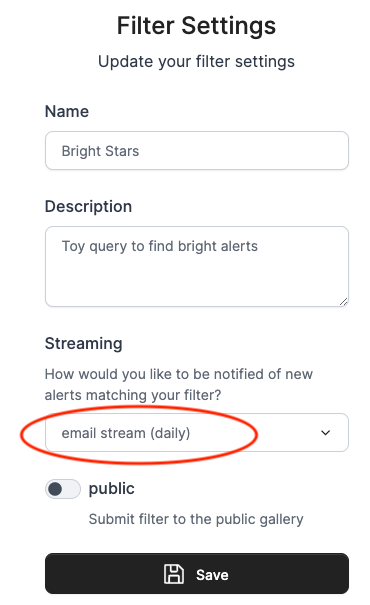
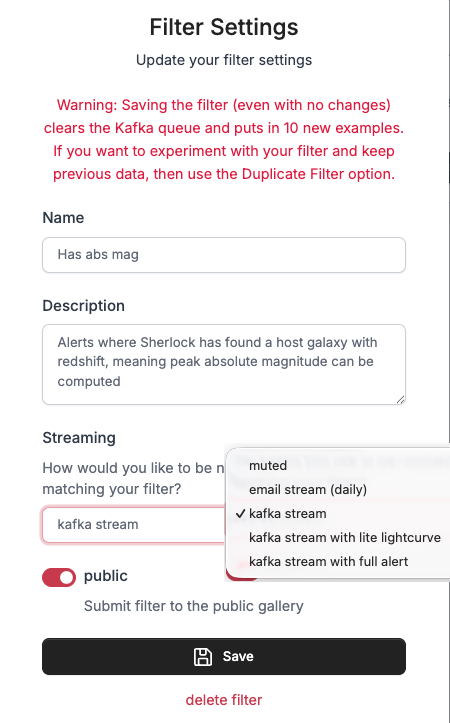
modified dox

diff --git a/docs/source/core_functions/alert-streams.md b/docs/source/core_functions/alert-streams.md
@@ -1,55 +1,152 @@
 ## Alert Streams
 
-The Lasair broker can send immediate “push” notifications when your active query/filter sees and interesting alert. Here is how to make that happen with email notification. First make sure you are logged in to your Lasair account (top left of screen, then go to create new stored query. This page is about how to get email alerts from your active query; the process is very similar for Kafka alerts, except that you will fetch the results by machine instead of by email.
+The Lasair broker can send immediate “push” notifications when your active 
+filter sees and interesting alert. Here is how to make that 
+happen with email notification. First make sure you are logged in to your 
+Lasair account (top left of screen, then go to create new stored filter. 
+This page is about how to get machine-readable push records from your active filter; 
+You can also get alert by email, although obviously the numbers will be limited.
 
 ### Resources
 - See the "Test_Consumers" notebook in the [Lasair API Examples notebooks](https://github.com/lsst-uk/lasair-examples/blob/main/notebooks/Test_Consumers.ipynb)
 - Watch the video [Topic and GroupID for a Lasair Kafka Stream](https://youtu.be/HJneKr1EhmY).
+- Copy and modify the program at the bottom of this page to fetch your own Kafka records.
 
-### Streaming Filters
+### Active Filter with Kafka
+Lasair provides a protocol for immediate delivery that is suitable for machines to 
+communicate with machines. It is called Kafka, and is the way alerts are delivered from
+the Rubin Observatory to brokers such as Lasair.
+By providing Kafka streams, Lasair provides a machine-readable packet of data 
+that can cause action at your site. 
 
 You will need to be logged in to your Lasair account. Make a filter as in the
-previous section, then click “Save". You will then be prompted for "Filter Settings", which you can fill in like this:
-<img src="../_images/alert-streams/filter_settings.png" width="300px"/>
+previous section, then click “Save". You will then be prompted for "Filter Settings", 
+which you can fill in like this:
 
-Nothing will happen immediately. You can run the query in the usual way from the web browser, but you will have to wait for some alerts to arrive before your active query will be triggered. Once that happens, you will get an email at the address you used to create your account. Something like the message shown here. Note that the attributes you chose above are reported (objectId, gmag, since), together with the UTC time at which the alert was triggered.
+<img src="../_images/alert-streams/filter_settings.png" width="400px"/>
 
-The email distribution is intended for filters that do not pass many alerts 
-in a given day, or else the email box will be flooded with spam. Lasair throttles
-the number of emails; once the first has been sent, another willnot be sent until 24
-hours later, containing the objects passed by the filter in that time. In this 
-way, a maximum of one email per day can come from a Lasair filter.
+You need a name and description, and at the bottom choose the filter is to be
+publicly visible or not. See below for the meaning of the various choices in
+the "Streaming" selection. When you save the filter, you see something like this:
 
-<img src="../_images/alert-streams/filter_results.png" width="500px"/>
+<img src="../_images/alert-streams/filter_saved.png" width="400px"/>
 
-### Kafka Streams
+The red warning on the settings panel is connected to the green message in the response. 
+Whenever a kafka filter is changed, the old records are deleted, and Lasair runs
+the new filter to try and put 10 records in the stream so you can see something
+with the Kafka consumer (code below). You can run the filter in the usual way 
+from the web browser, but you will have to wait for some alerts to arrive for 
+more records to go in the stream.
 
-While there are many methods to handle emails automatically, they are complex and beset with problems. 
+In order to run the consumer code, you need the "topic name" corresponding to your 
+filter, which is derived from the name you gave it in the settings. In this case the 
+topic name is `lasair_2Hasabsmag`.
 
-Therefore Lasair also provides a protocol for immediate delivery that is more suitable for machines to communicate with machines. It is called Kafka.
-By providing Kafka streams, Lasair provides a machine-readable packet of data that can cause action at your site. 
-While this can be done with the email channel, it is awkward. To convert your filter from email to kafka, bring 
-choose the filter, then click the Settings button, and change the streaming option to 'kafka stream'.
+#### Types of Kafka Streams
+The plain kafka stream offers just the attributes you selected in your filter query.
+Supoose your SQL SELECT says `objects.diaObjectId,  objects.decl, objects.ra`, 
+then your plain Kafka output would be just these, with a timestamp added for
+when the record was produced:
+```
+{
+  "diaObjectId": 169760235333878021,
+  "decl": -38.16173726666955,
+  "ra": 221.87087177320953,
+  "UTC": "2026-01-29 11:40:14",
+}
+```
 
-*   We recommend [Confluent Kafka](https://pypi.org/project/confluent-kafka/), the python install being `pip install confluent_kafka`.
-*   You will be connecting to lasair-lsst-kafka.lsst.ac.uk on port 9092
+If you choose the lite lightcurve option, you also get the basic lightcurve
+information from the `alert` record:
+```
+{
+  "diaObjectId": 169760235333878021,
+  "decl": -38.16173726666955,
+  "ra": 221.87087177320953,
+  "UTC": "2026-01-29 11:40:14",
+  "alert": {
+    "diaSourcesList": [
+      {
+        "psfFlux": 13677.0458984375,
+        "psfFluxErr": 1538.7562255859375,
+        "midpointMjdTai": 61029.354114730224,
+        "band": "z",
+        "reliability": 0.4863438308238983
+      },
+      ....  (perhaps 100 of these with 5 attributes each)
+    ],
+    "diaForcedSourcesList": [....]
+  }
+}
+```
 
-You will need to understand two concepts: Topic and GroupID. 
+If you choose kafka with the full alert, you will get records like this, with the full 
+alert data as received from Rubin, except for the cutout images:
+```
+{
+  "diaObjectId": 169760235359568157,
+  "decl": -38.15011815002772,
+  "ra": 223.6809029068466,
+  "UTC": "2026-01-29 11:40:14",
+  "alert": {
+    "diaObject": {
+      "diaObjectId": 169760235359568157,
+      "validityStartMjdTai": 61029.3580485083,
+      "ra": 223.6809029068466,
+      "raErr": 3.365151133039035e-05,
+      ....  (78 more attributes)
+    },
+    "diaSourcesList": [
+      {
+        "diaSourceId": 169760235359568157,
+        "visit": 2025121900283,
+        "detector": 179,
+        "diaObjectId": 169760235359568157,
+        ....  (94 more attributes)
+      },
+      ....  (perhaps 100 of these packets of 98 attributes each)
+    ],
+    "diaForcedSourcesList": [ .... ],
+  }
+}
+```
 
-*  The Topic is a string to identify which stream of alerts you want, which derives from the name of a Lasair streaming query. 
-*  The GroupID tells Kafka where to start delivery to you. It is just a string that you can make up, for example "Susan3456". The Kafka server remembers which GroupIds it has seen before, and which was the last alert it delivered. When you start your code again with the same GroupID, you only get alerts that arrived since last time you used that GroupId. If you use a new GroupID, you get the alerts from the start of the Kafka cache, which is about 7 days.
+**WARNING The full alert records can be quite large, perhaps a fraction of a megabyte,
+and if your filter passes a large number of these they will be dropped.** Lasair cannot
+be expected to supply an individual user with **all** the data on **all** the alerts as 
+that would be terabytes per night. In any case, Kafka records are deleted after 7 days,
+so you will need to be running a consumer either frequently or constantly to get 
+everything.
+
+#### Kafka consumer code
+To run the code below, install
+[Confluent Kafka](https://pypi.org/project/confluent-kafka/), 
+the python install being `pip install confluent_kafka`.
+
+You will be connecting to `lasair-lsst-kafka.lsst.ac.uk` on port 9092. 
+
+You will need to understand two concepts: `topic_name` and `group_id`. The `topic_name` is a string 
+to identify which stream of alerts you want, which derives from the name of a 
+Lasair active filter. 
+The `group_id` tells Kafka where to start delivery to you. It is just a string 
+that you can make up, for example "Susan3456". The Kafka server remembers which 
+`group_id`s it has seen before, and which was the last alert it delivered. 
+When you start your code again with the same `group_id`, you only get alerts 
+that arrived since last time you used that `group_id`. If you use a new `group_id`, 
+you get the alerts from the start of the Kafka cache, which is about 7 days.
 
 You can find the topic that corresponds to your filter in the detail page, shown here in the red oval:
 
 <img src="../_images/alert-streams/seriousfilter.png" width="500px"/>
 
 The topic name is a combination of the string "lasair_", the ID number of your user account, and
-a sanitised version of the name you gave the filter. Therefore if you edit the filter and change its name, 
-the topic name will also change.
+a sanitised version of the name you gave the filter. Therefore if you edit the 
+filter and change its name, the topic name will also change.
 
 For testing purposes, the `group_id` will change frequently, and you can get all of the alerts
-the come from the given stream. Then you will set up your program to run continuously,
-perhaps in a `screen` session on a server machine, or started every hour by `cron`. 
+the come from the given stream in the last 7 days. 
+Then you will set up your program to run continuously, perhaps in a `screen` session 
+on a server machine, or started every hour by `cron`. 
 In this case, the `group_id` should remain constant, so you won't get any alerts twice.
 
 Here is the sample code
@@ -59,7 +156,7 @@ from lasair import lasair_consumer
 
 kafka_server = 'lasair-lsst-kafka.lsst.ac.uk:9092'
 group_id     = 'test123'
-my_topic     = 'lasair_2SN-likecandidates'
+my_topic     = 'lasair_2Hasabsmag'
 consumer = lasair_consumer(kafka_server, group_id, my_topic)
 import json
 n = 0
@@ -72,6 +169,17 @@ while n < 10:
         break
     jmsg = json.loads(msg.value())
     print(json.dumps(jmsg, indent=2))
+    print('===')
     n += 1
 print('No more messages available')
 ```
+
+#### Email Streaming
+
+The email distribution is a much simpler notification process, and is intended for 
+filters that do not pass many alerts 
+in a given day -- or else the email box will be flooded with spam. Lasair throttles
+the number of emails; once the first has been sent, another will not be sent until 24
+hours later, containing the objects passed by the filter in that time. In this 
+way, a maximum of one email per day can come from a Lasair filter.
+

diff --git a/docs/source/concepts.md b/docs/source/concepts.md
@@ -76,7 +76,13 @@ coincident objects.
 
 The Watchmap is a specification of an area on the sky, expressed though a
 MOC file.
-## Coding with Lasair
+## Real time filter results
+Users create a **filter** by combining the elements desctibed above, using the SQL syntax: for more information see the [Quick Start](quickstart.html). A filter can be executed from the the Lasair web, or from the API (see below), but crucially the filter can be made **active**, meaning that a real-time machine-readable stream is generated of those alerts that are selected by the filter. A filter is built on the web page, and the following selection is presented:
+<img src="_images/active_filter_choices.png" width="300px"/>
+
+The "muted" choice means no real-time notification; the "email" stream means an email notification of filter output, then there are three kafka options: "kafka stream" means just the selected attributes from the SQL filter; the lite lightcurve also includes the flux, time, and band from the lightcurve, and the "full alert" is a large packet with the entire LSST alert that triggered the filter. For mor information abour utilising the Kafka streams, see the [Alert Streams section](core_functions/alert-streams.html)
+
+## Lasair API and client
 
 The recommended way to write code against the Lasair database is by
 the [python client for Lasair ](https://pypi.org/project/lasair/):

diff --git a/docs/source/cookbook.md b/docs/source/cookbook.md
@@ -74,7 +74,7 @@ get the filtered alert stream.
 ---
 ### Poking about in Gaia with ZTF
 There is a lot of data available at [Lasair ZTF](https://lasair-ztf.lsst.ac.uk/), 
-and not very much at [Lasair LSST](https://lasair-lsst.lsst.ac.uk/).
+and not very much at [Lasair LSST](https://lasair.lsst.ac.uk/).
 Let's look at the tools available in the 2-band ZTF object table, 
 versus the object table of the 6-band LSST object table. In the former case, we can ask about 
 each band separately, but for 6 bands we have tried to make features that give a 

diff --git a/docs/source/more_info/contact.md b/docs/source/more_info/contact.md
@@ -33,6 +33,6 @@ There will be occasional meetings, tutorials, and hackathons about using Lasair.
 These will be announced at the Lasair blog, so please follow!
 
 ### The Lasair Team
-* University of Edinburgh: Gareth Francis, Andy Lawrence, Terry Sloan, Roy Williams
+* University of Edinburgh: Gareth Francis, Andy Lawrence, Roy Williams
 * Queen's University Belfast: Dave Young
-* University of Oxford: Stephen Smartt, Ken Smith
+* University of Oxford: Stephen Smartt, Ken Smith, Heloise Stevance

diff --git a/docs/source/quickstart.md b/docs/source/quickstart.md
@@ -15,7 +15,7 @@ a popup with a link to the full object page, the age of the most recent alert,
 its magnitude, and its class.
 
 **NOTE**: Even if you have an account on the Lasair-ZTF system, you will need a
-new one to use Lasair-lsst. Register [here](https://lasair-lsst.lsst.ac.uk/register/).
+new one to use Lasair-lsst. Register [here]({%lasairurl%}/register/).
 
 To get started we will focus on a few properties (columns) of a Lasair object recorded in two of the most commonly used tables:
 
